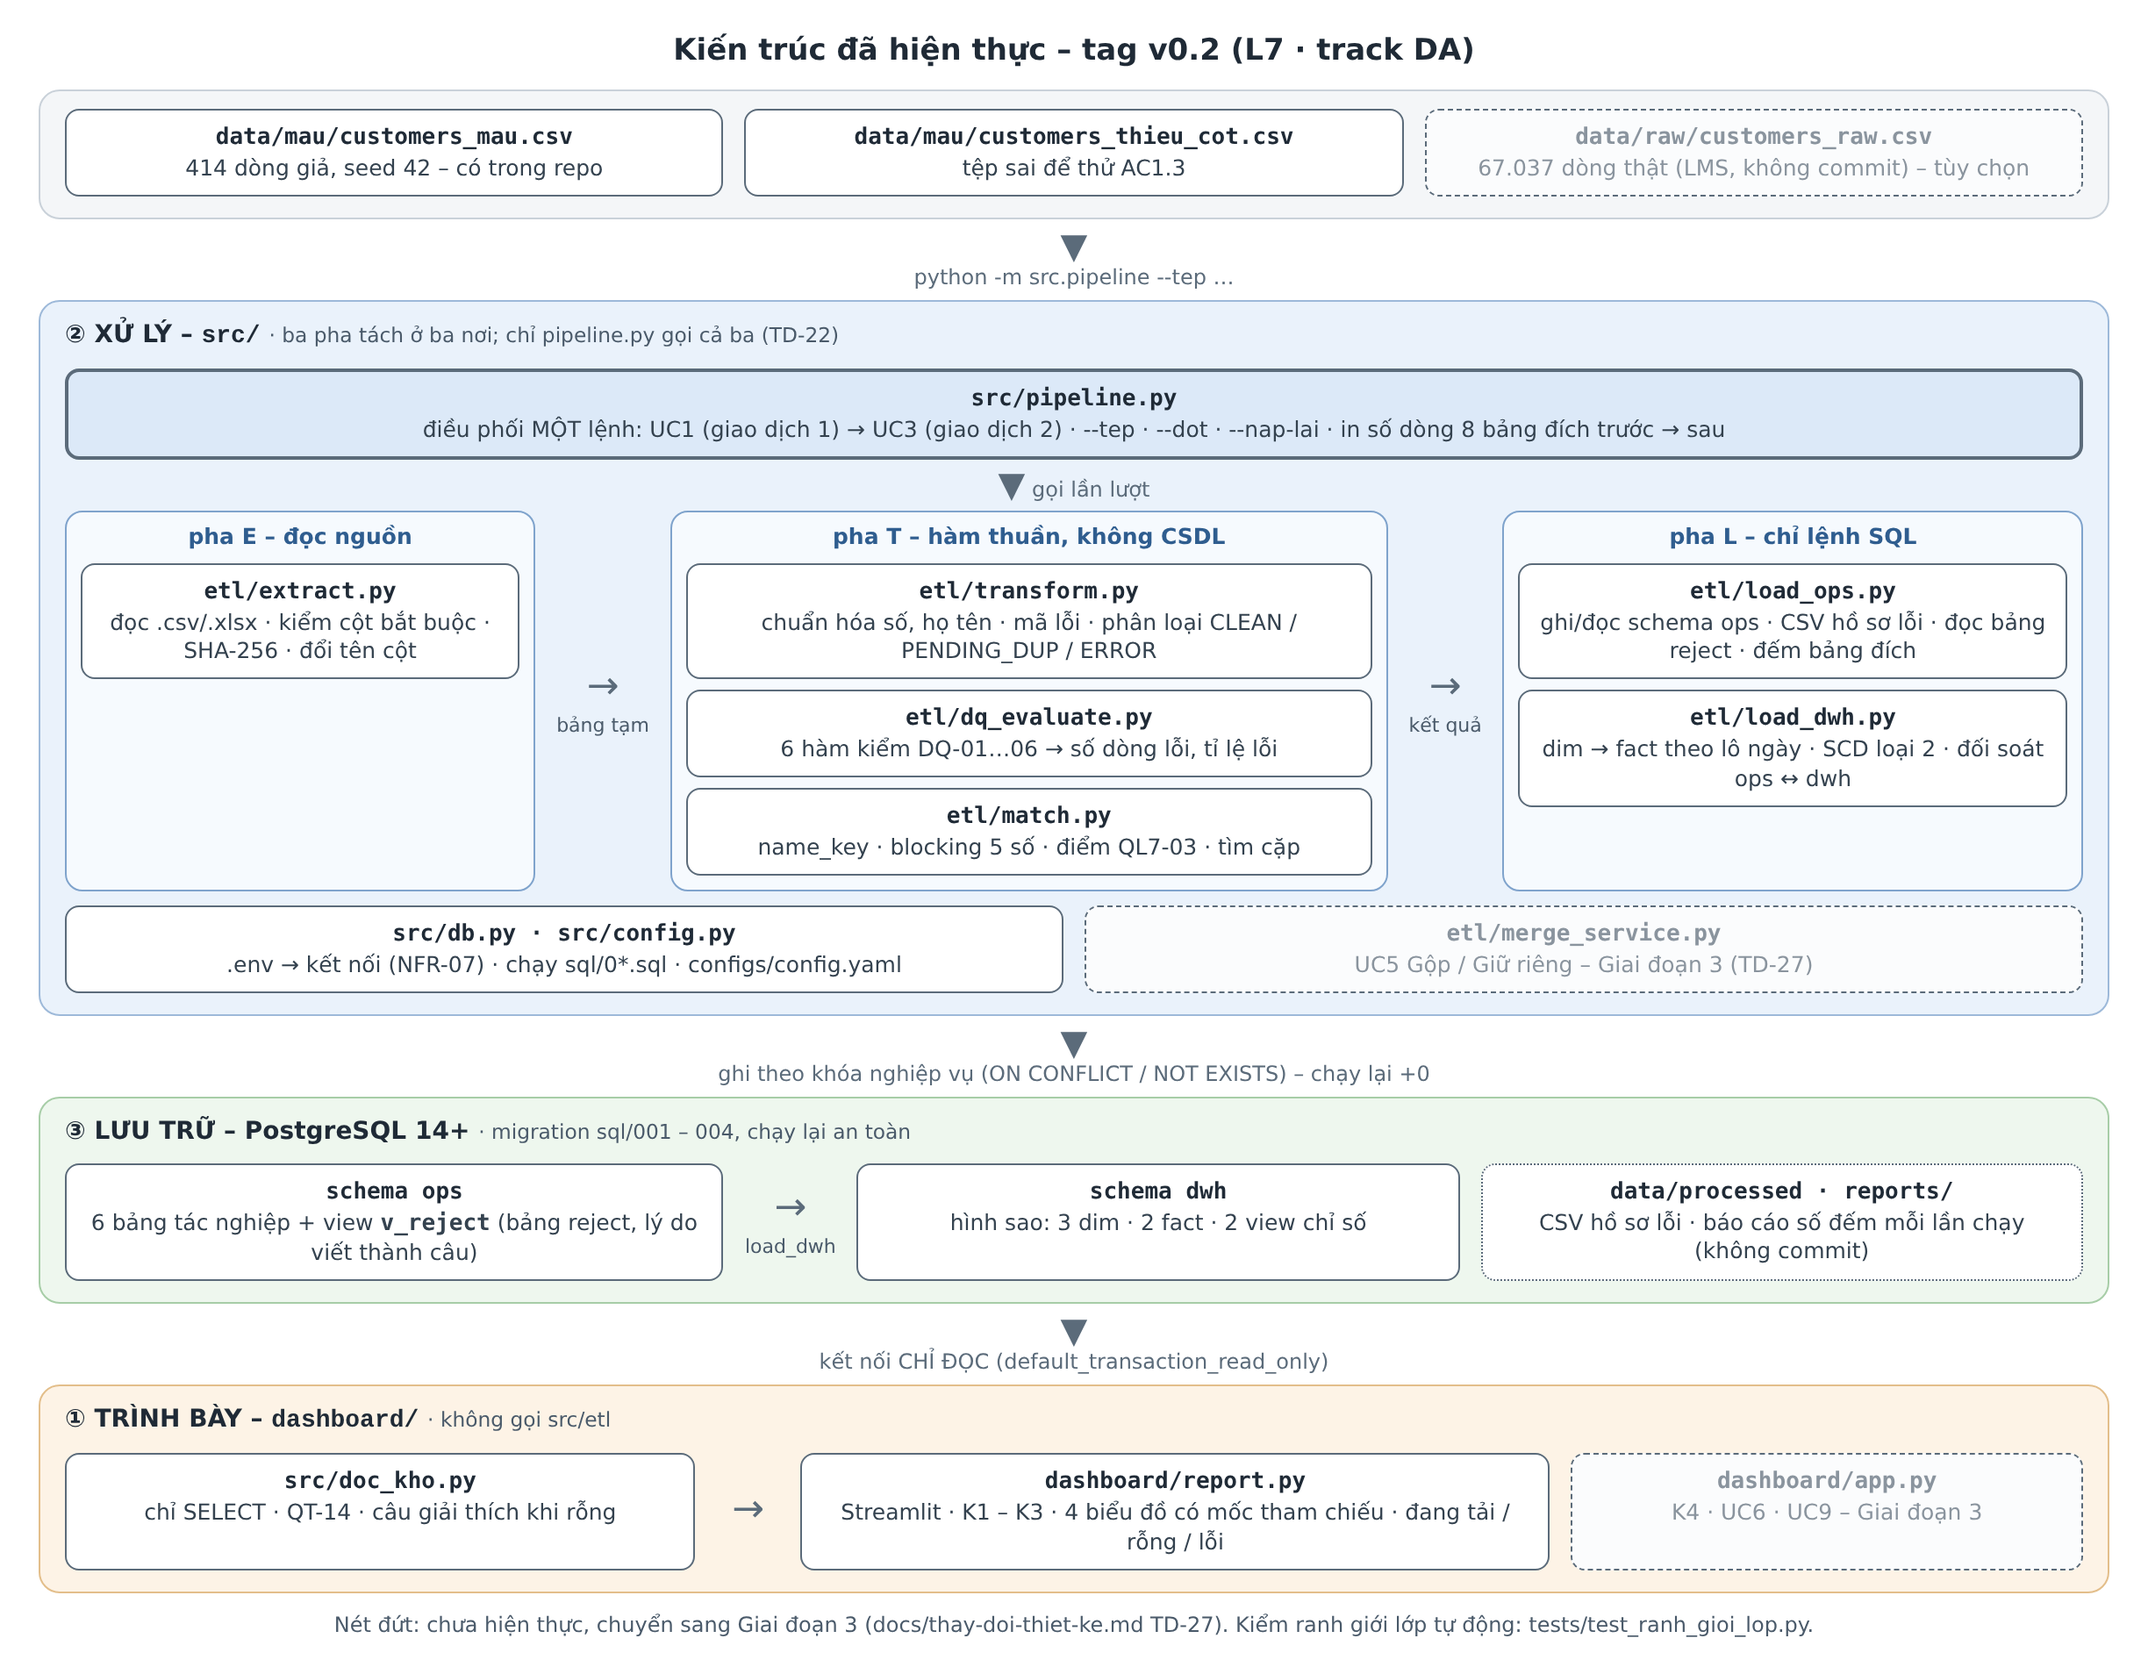
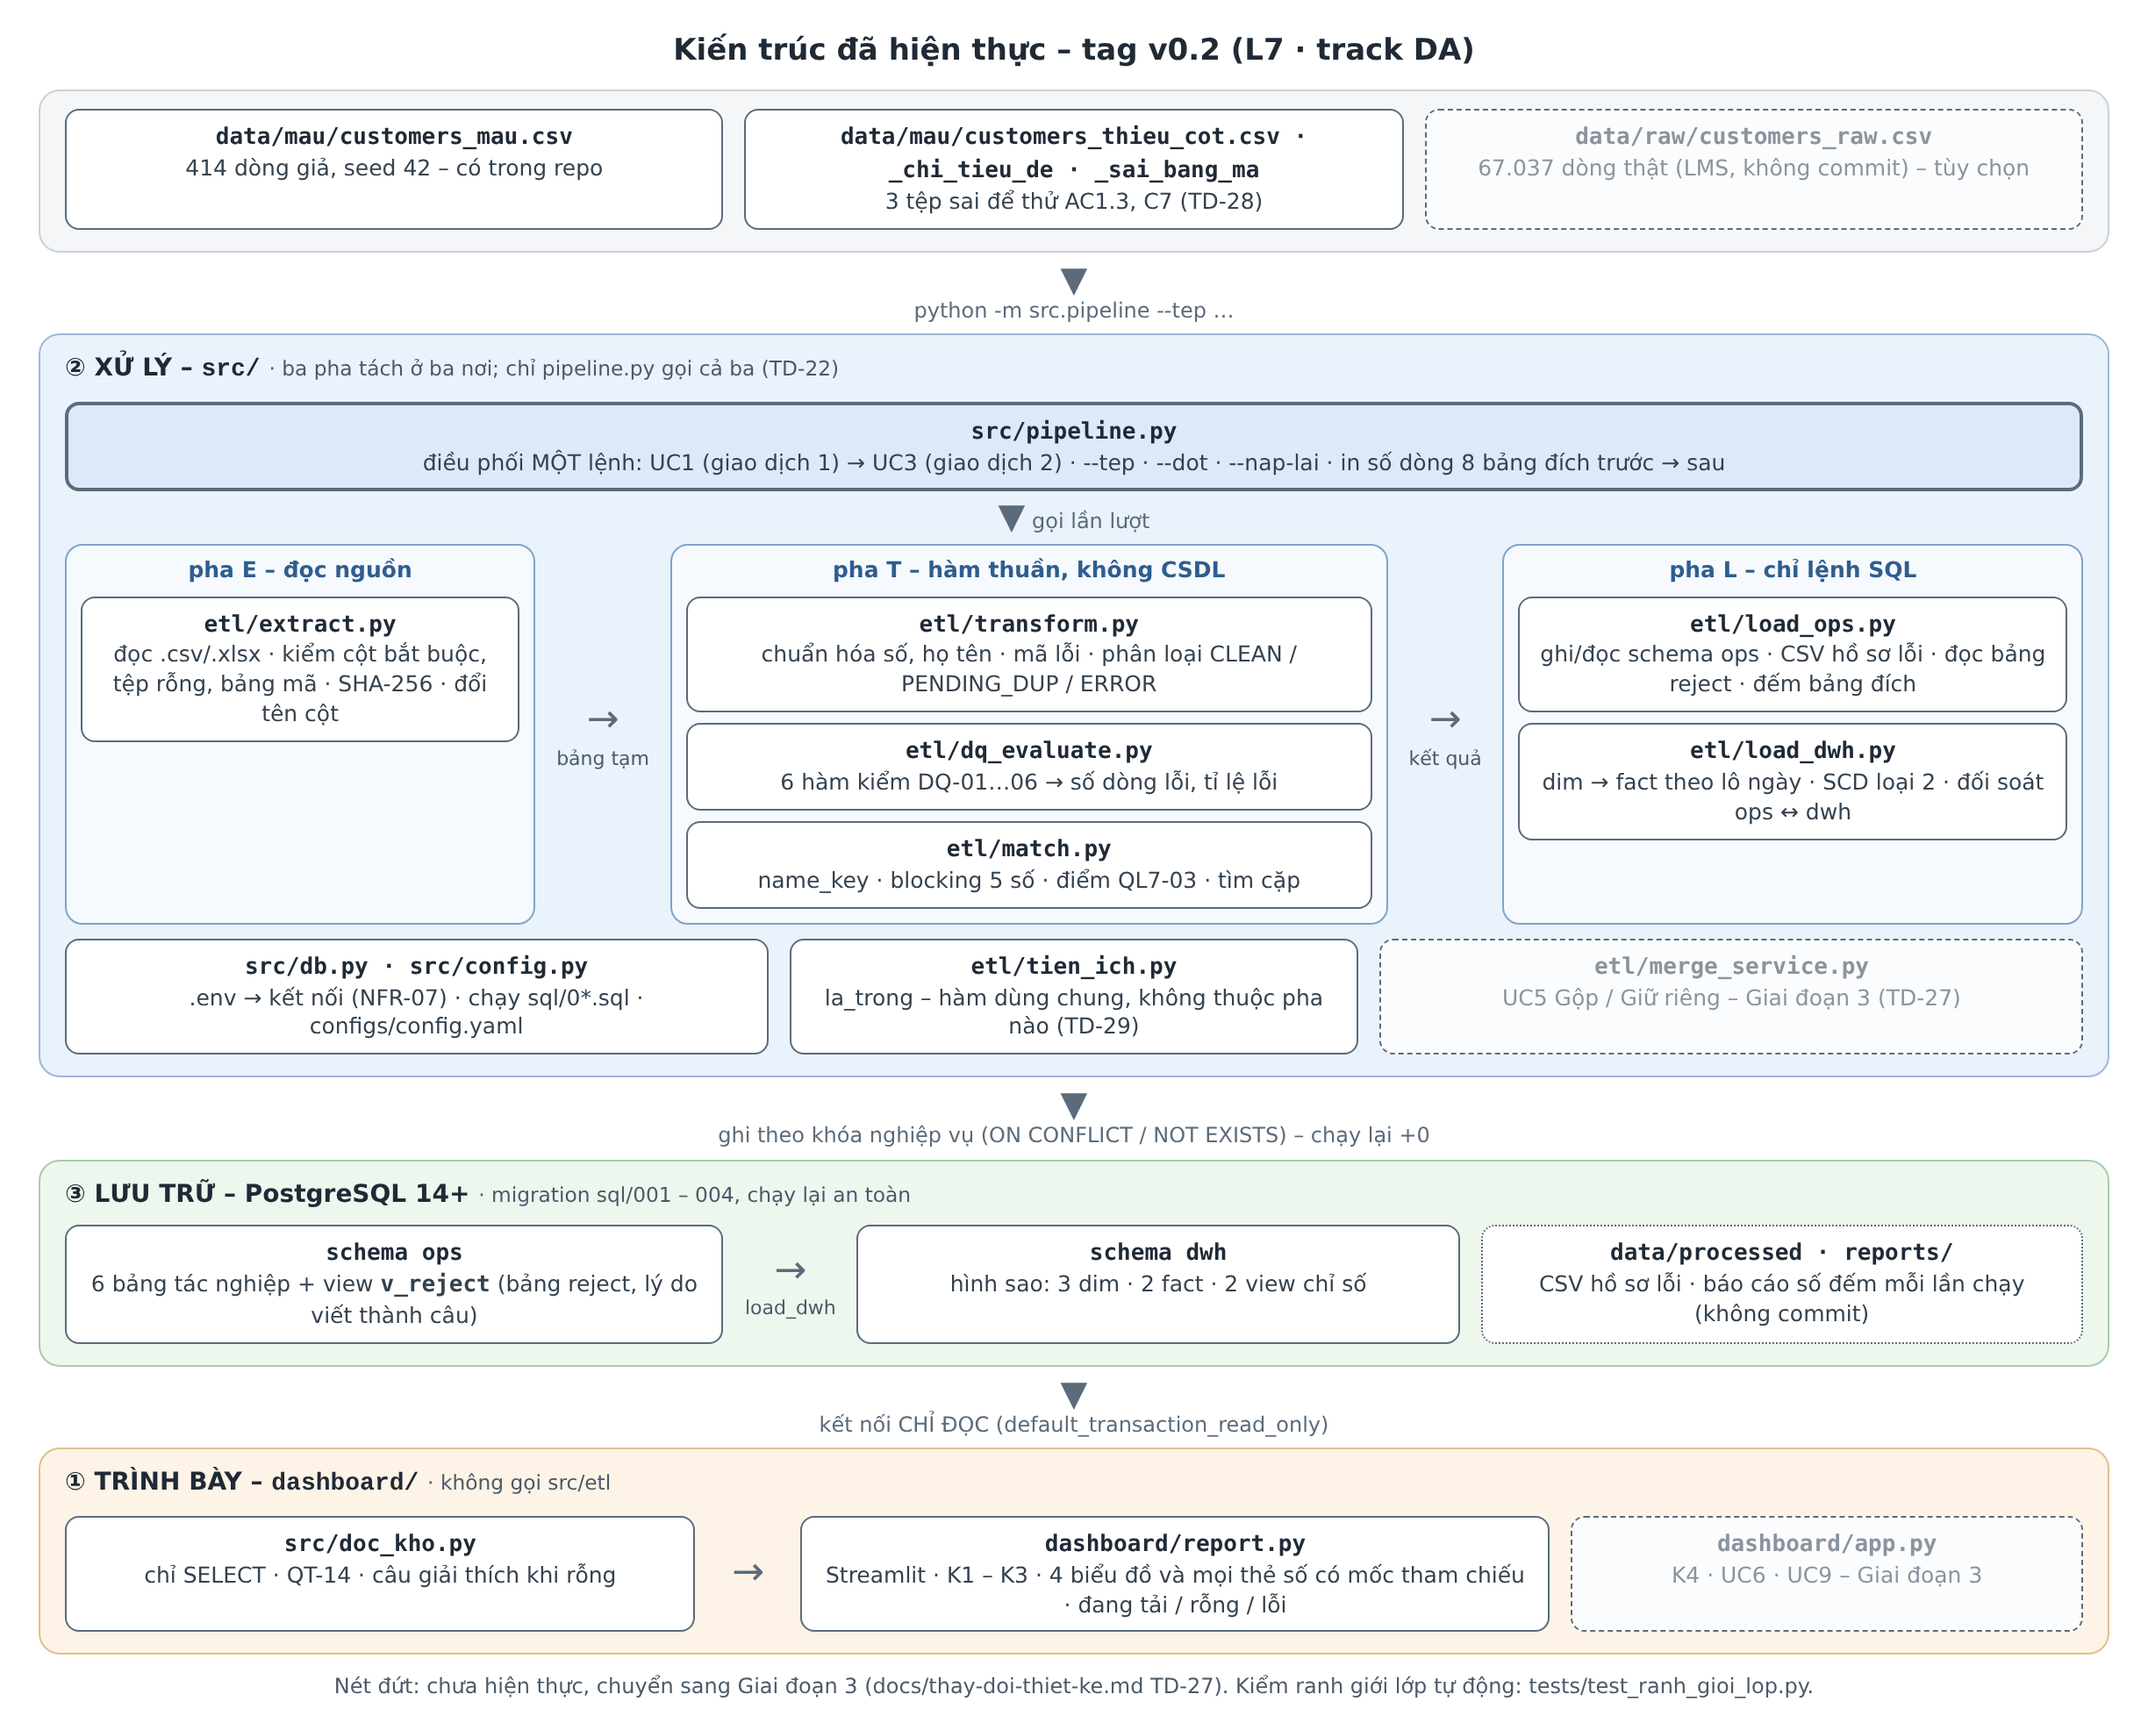
docs(kiến trúc): thêm etl/tien_ich.py và ba tệp mẫu lỗi vào sơ đồ đã hiện thực
Claude-Session: https://claude.ai/code/session_01PMTm2awC8286Y7L2f254Dg

diff --git a/docs/architecture-thuc-te.html b/docs/architecture-thuc-te.html
@@ -30,7 +30,7 @@
 
 <div class="bang b0"><div class="hang">
   <div class="o" style="flex:1"><b>data/mau/customers_mau.csv</b><div>414 dòng giả, seed 42 – có trong repo</div></div>
-  <div class="o" style="flex:1"><b>data/mau/customers_thieu_cot.csv</b><div>tệp sai để thử AC1.3</div></div>
+  <div class="o" style="flex:1"><b>data/mau/customers_thieu_cot.csv · _chi_tieu_de · _sai_bang_ma</b><div>3 tệp sai để thử AC1.3, C7 (TD-28)</div></div>
   <div class="o cho" style="flex:1"><b>data/raw/customers_raw.csv</b><div>67.037 dòng thật (LMS, không commit) – tùy chọn</div></div>
 </div></div>
 <div class="xuong"><div class="m">▼</div>python -m src.pipeline --tep …</div>
@@ -40,7 +40,7 @@
   <div class="xuong" style="margin:4px 0"><span class="m">▼</span> gọi lần lượt</div>
   <div class="hang">
     <div class="pha" style="flex:.8"><div class="t">pha E – đọc nguồn</div>
-      <div class="o"><b>etl/extract.py</b><div>đọc .csv/.xlsx · kiểm cột bắt buộc · SHA-256 · đổi tên cột</div></div></div>
+      <div class="o"><b>etl/extract.py</b><div>đọc .csv/.xlsx · kiểm cột bắt buộc, tệp rỗng, bảng mã · SHA-256 · đổi tên cột</div></div></div>
     <div class="mui">→<span>bảng tạm</span></div>
     <div class="pha" style="flex:1.25"><div class="t">pha T – hàm thuần, không CSDL</div>
       <div class="o"><b>etl/transform.py</b><div>chuẩn hóa số, họ tên · mã lỗi · phân loại CLEAN / PENDING_DUP / ERROR</div></div>
@@ -53,6 +53,7 @@
   </div>
   <div class="hang" style="margin-top:8px">
     <div class="o" style="flex:1"><b>src/db.py · src/config.py</b><div>.env → kết nối (NFR-07) · chạy sql/0*.sql · configs/config.yaml</div></div>
+    <div class="o" style="flex:.8"><b>etl/tien_ich.py</b><div>la_trong – hàm dùng chung, không thuộc pha nào (TD-29)</div></div>
     <div class="o cho" style="flex:1"><b>etl/merge_service.py</b><div>UC5 Gộp / Giữ riêng – Giai đoạn 3 (TD-27)</div></div>
   </div>
 </div>
@@ -72,7 +73,7 @@
   <div class="hang">
     <div class="o" style="flex:1"><b>src/doc_kho.py</b><div>chỉ SELECT · QT-14 · câu giải thích khi rỗng</div></div>
     <div class="mui">→</div>
-    <div class="o" style="flex:1.2"><b>dashboard/report.py</b><div>Streamlit · K1 – K3 · 4 biểu đồ có mốc tham chiếu · đang tải / rỗng / lỗi</div></div>
+    <div class="o" style="flex:1.2"><b>dashboard/report.py</b><div>Streamlit · K1 – K3 · 4 biểu đồ và mọi thẻ số có mốc tham chiếu · đang tải / rỗng / lỗi</div></div>
     <div class="o cho" style="flex:.8"><b>dashboard/app.py</b><div>K4 · UC6 · UC9 – Giai đoạn 3</div></div>
   </div>
 </div>
